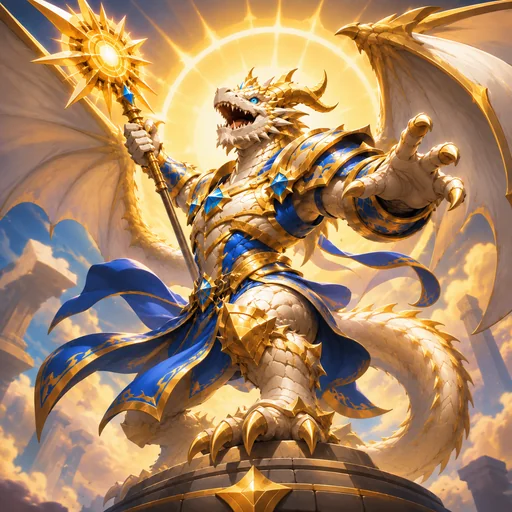
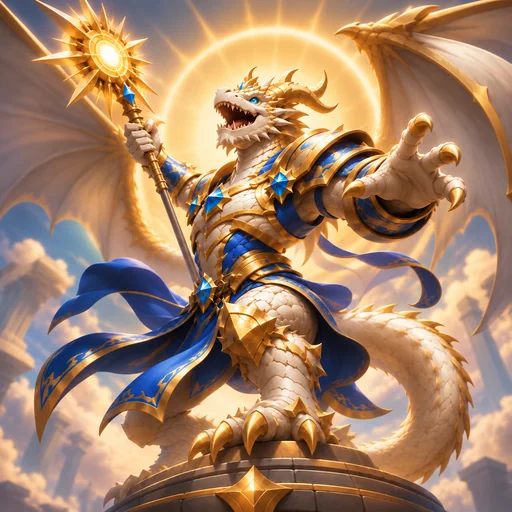
art(ui): Warpath from the owner's new master

diff --git a/packages/ui/src/patchNotes.ts b/packages/ui/src/patchNotes.ts
@@ -60,7 +60,7 @@ export const PATCH_NOTES: PatchNote[] = [
     changes: [
       {
         category: 'Systems',
-        text: 'New art for 122 Set 2 minions and 23 rune reward cards.',
+        text: 'New art for 123 Set 2 minions and 23 rune reward cards.',
       },
       {
         category: 'Systems',
